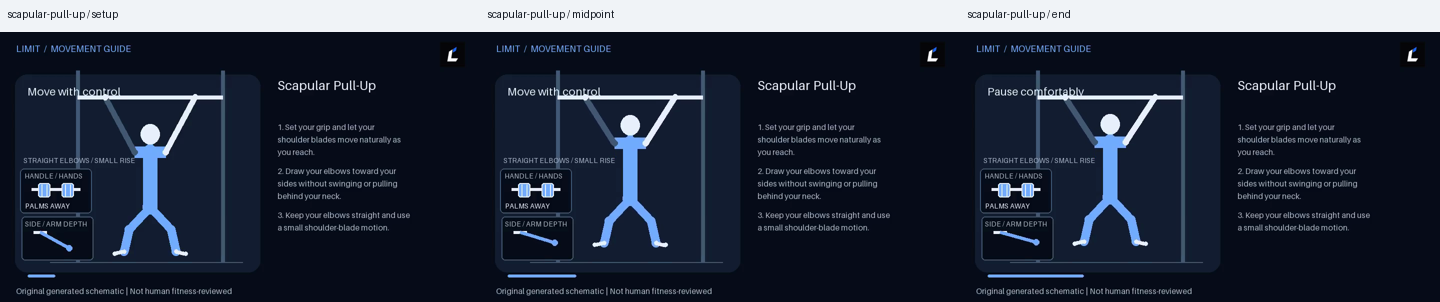
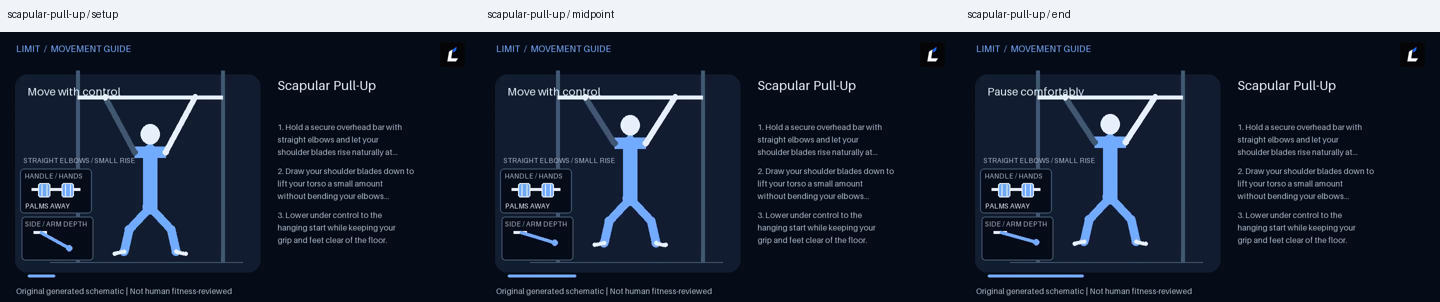
Correct straight-elbow scapular pull-up cues

diff --git a/packages/domain/exerciseCatalog.js b/packages/domain/exerciseCatalog.js
@@ -134,6 +134,11 @@ Weighted Chin-Up|Pull-up bar|A||Use a secure belt or vest and controlled repetit
 Scapular Pull-Up|Pull-up bar|I|Scap Pull-Up|Keep your elbows straight and use a small shoulder-blade motion.
 `
 );
+groups.find((entry) => entry.catalogKey === "scapular-pull-up").instructions = [
+  "Hold a secure overhead bar with straight elbows and let your shoulder blades rise naturally at the bottom.",
+  "Draw your shoulder blades down to lift your torso a small amount without bending your elbows or swinging.",
+  "Lower under control to the hanging start while keeping your grip and feet clear of the floor.",
+];
 group(
   "Upper back",
   ["Lats", "Biceps", "Rear delts"],

diff --git a/docs/exercise-media.md b/docs/exercise-media.md
@@ -303,6 +303,6 @@ The hundred-and-nineteenth batch adds `machine-hip-thrust` with a fixed machine 
 
[1 lines of base64/hex data omitted]
 
[2 lines of base64/hex data omitted]
 
[1 lines of base64/hex data omitted]
